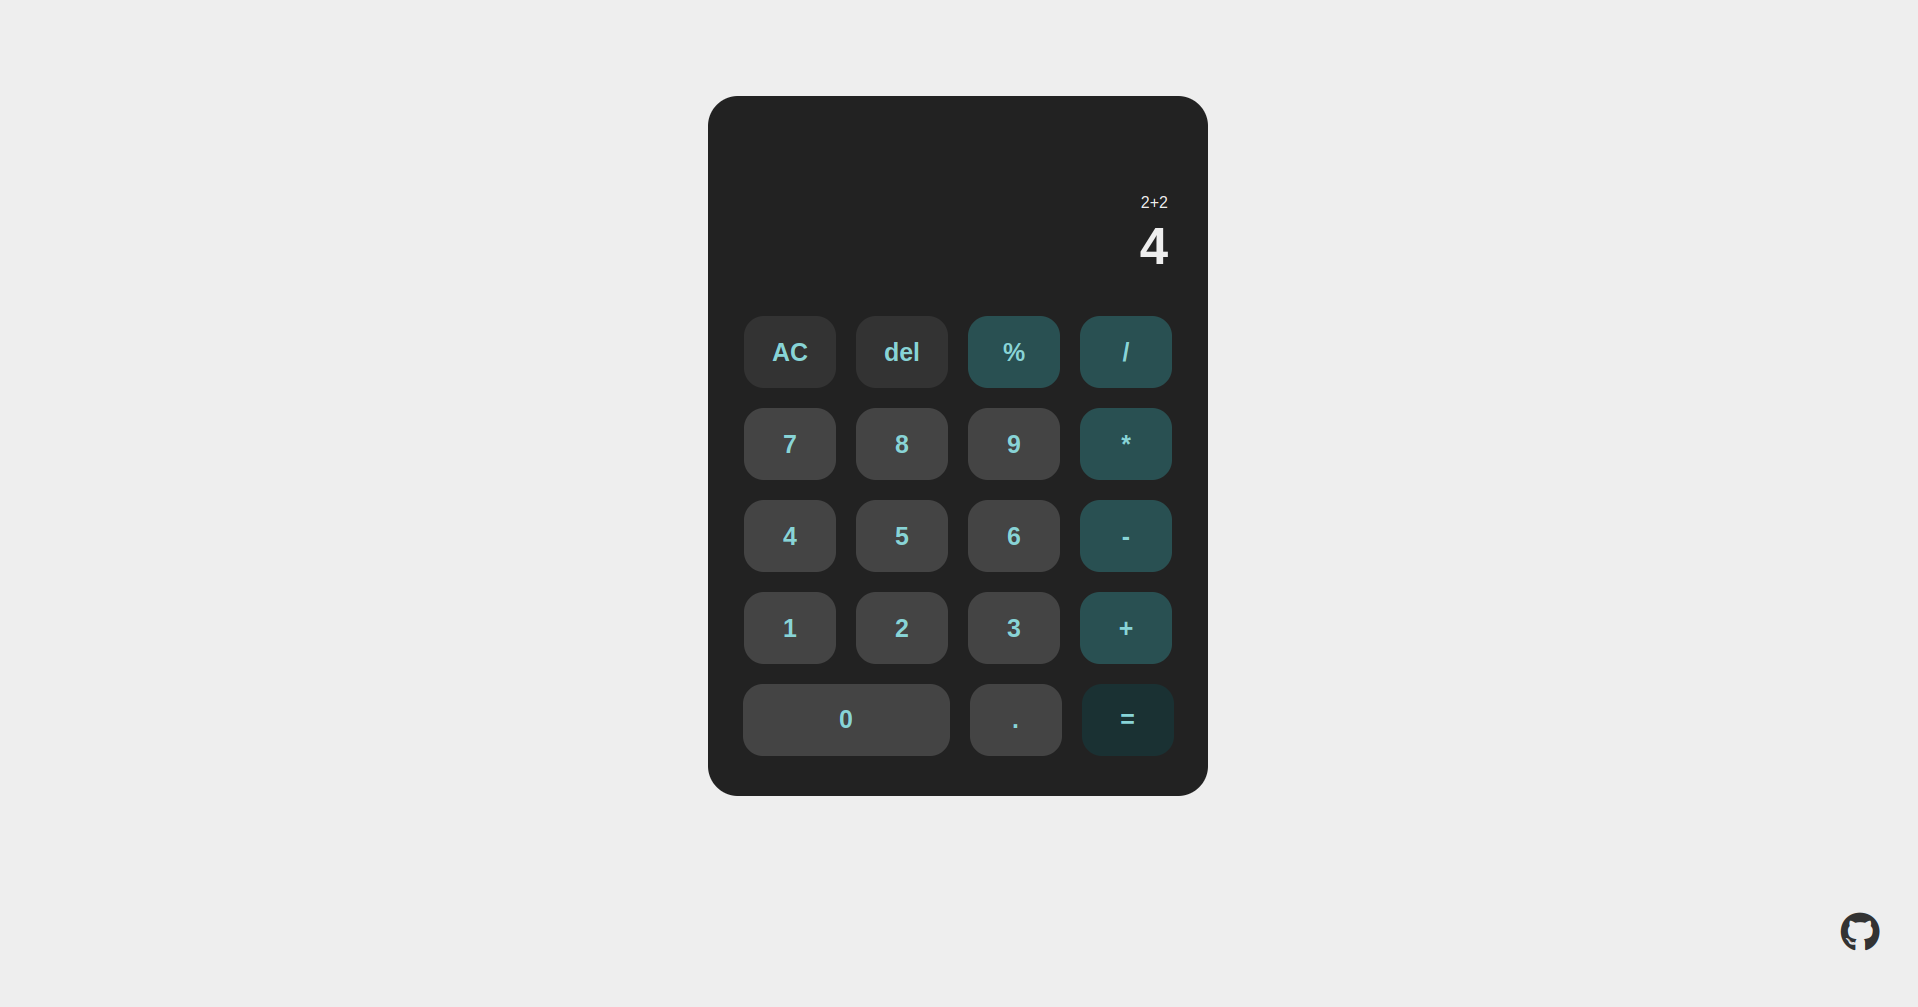
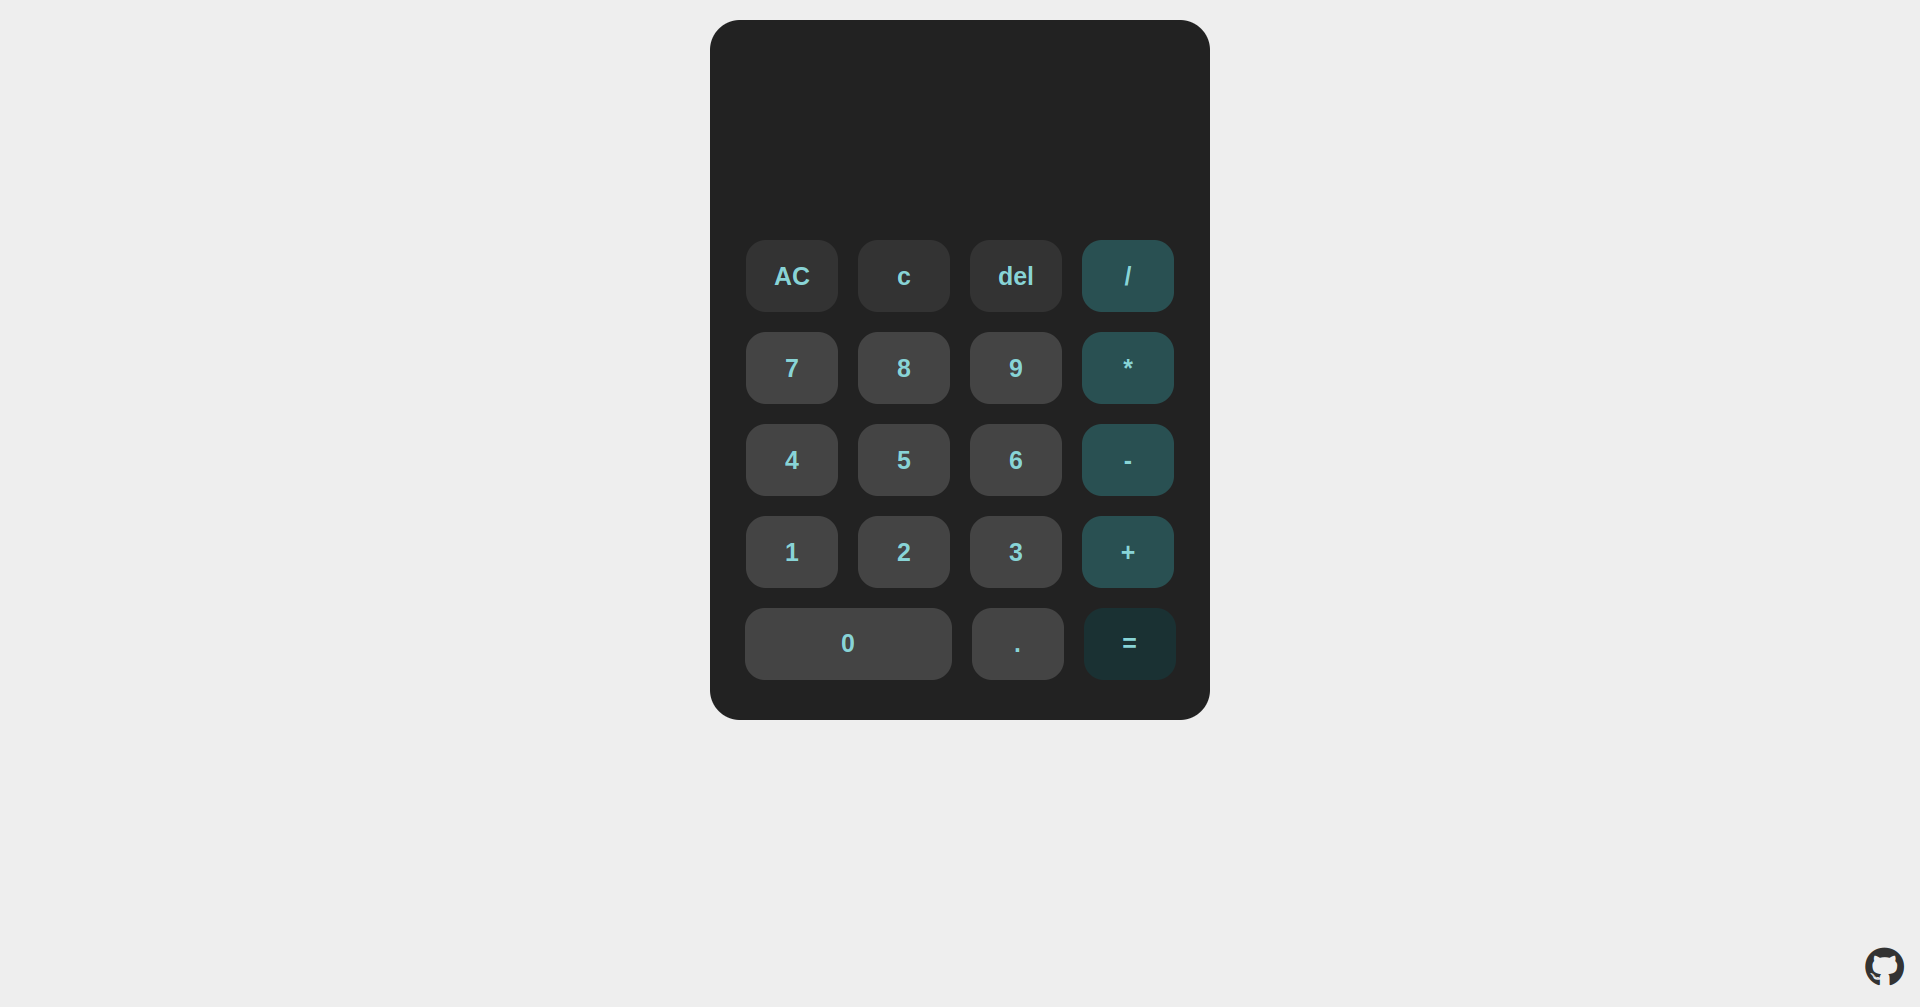
Fix github link position

diff --git a/style.css b/style.css
@@ -15,7 +15,7 @@ body {
 .calculator {
   width: 500px;
   height: 700px;
-  margin: 5% auto;
+  margin: 20px auto 0 auto;
   padding: 20px;
 
   display: flex;
@@ -103,6 +103,11 @@ body {
   color: #333;
   font-size: 40px;
 
-  align-self: flex-end;
-  margin: 1% 2%;
+  position: absolute;
+  bottom: 1rem;
+  right: 1rem;
+}
+
+.github-link:hover {
+  color: #295052;
 }
